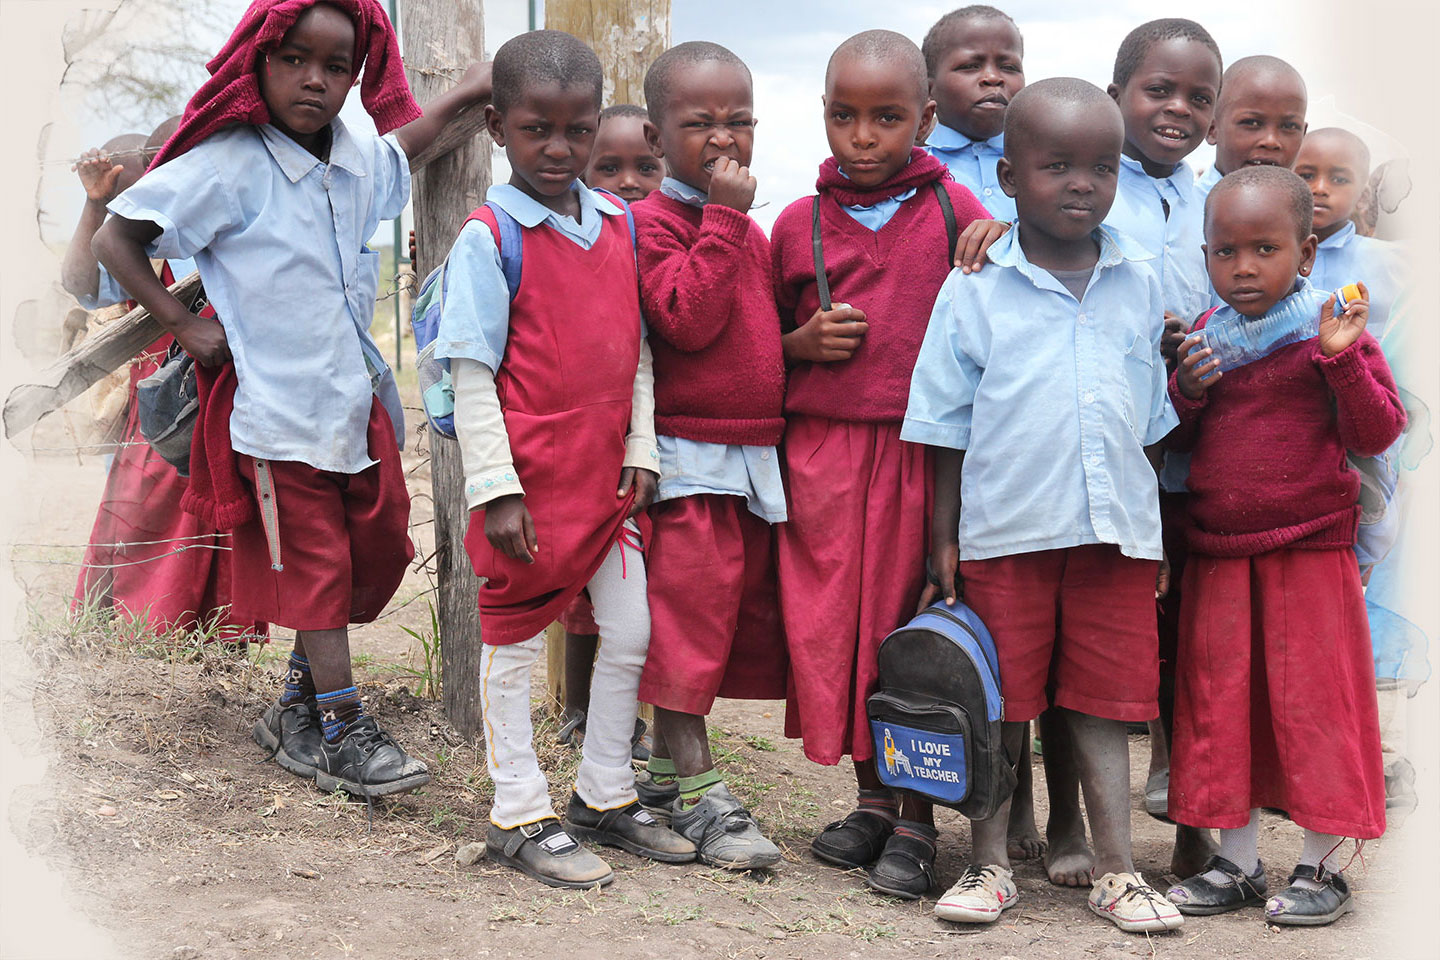
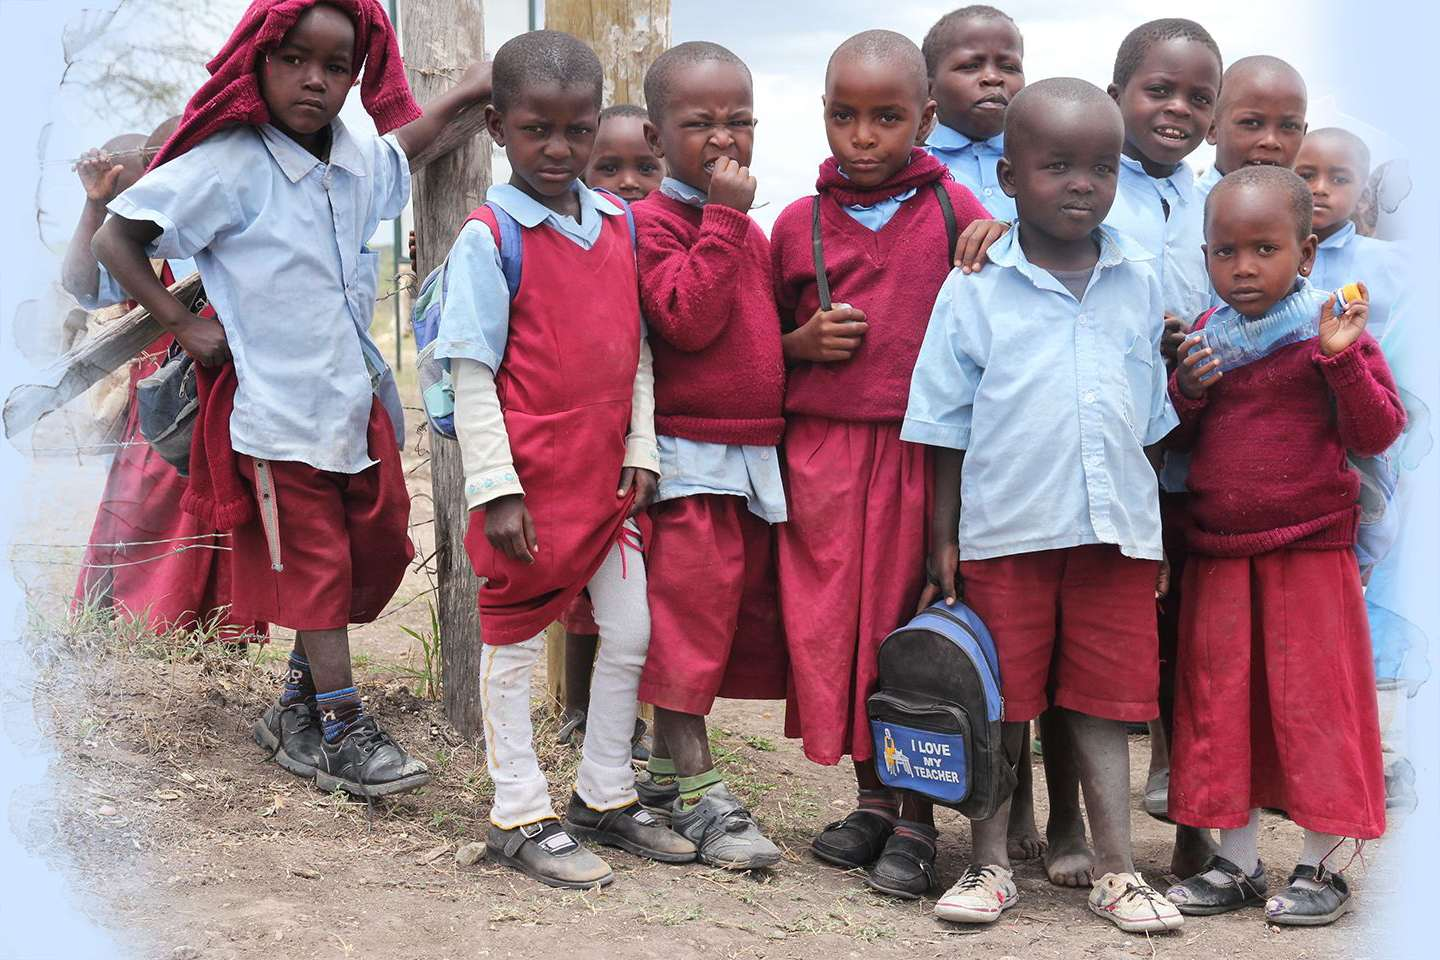
change bg color to blue and reduce image size

diff --git a/_sass/minima.scss b/_sass/minima.scss
@@ -17,6 +17,7 @@ $brown:            #7C5F55;
 $brown-drk:        #321A12;
 $tan:              #cbbdb0;
 $tan:              #ece5de;
+$light-blue:       #d0e5ff;
 
 $text-color:       $brown-drk !default;
 $background-color: #fdfdfd !default;

diff --git a/_sass/minima/_hope-site-styles.scss b/_sass/minima/_hope-site-styles.scss
@@ -41,7 +41,7 @@ h1, h2, h3, h4, h5, h6 {
 
 .featured-content {
   min-height: 480px;
-  background-color: $tan;
+  background-color: $light-blue;
   overflow: hidden;
   margin-top: -30px;
   margin-bottom: 30px;
